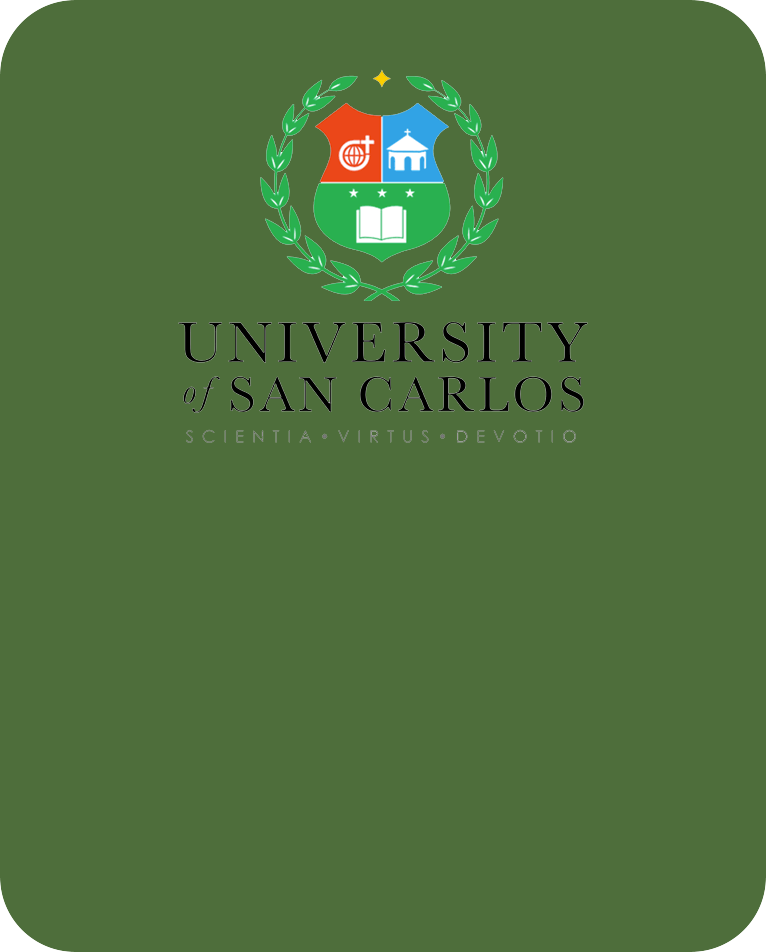
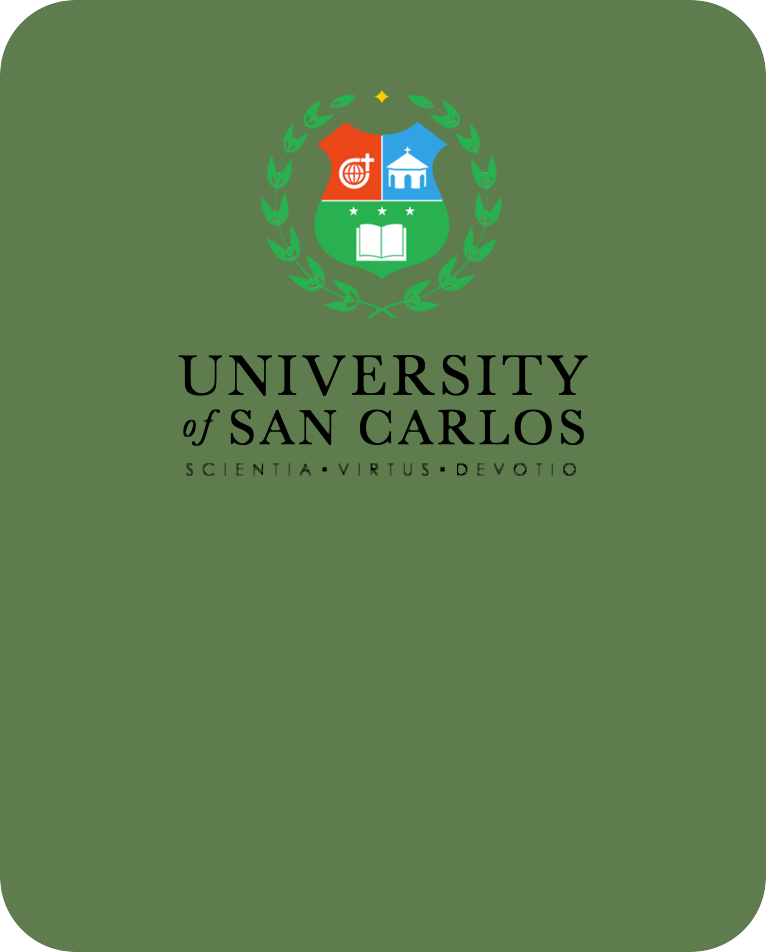
Improved login box

Changed region(s): [[0.2402, 0.0609, 0.7807, 0.5179]]

diff --git a/css/login.css b/css/login.css
@@ -7,7 +7,7 @@ body {
 
 .loginImage{
     background-image: url(../images/loginBox.png); 
-    opacity: 0.9;
+    opacity: 1;
     background-repeat: no-repeat;
     background-size: contain;
     background-position: center;
